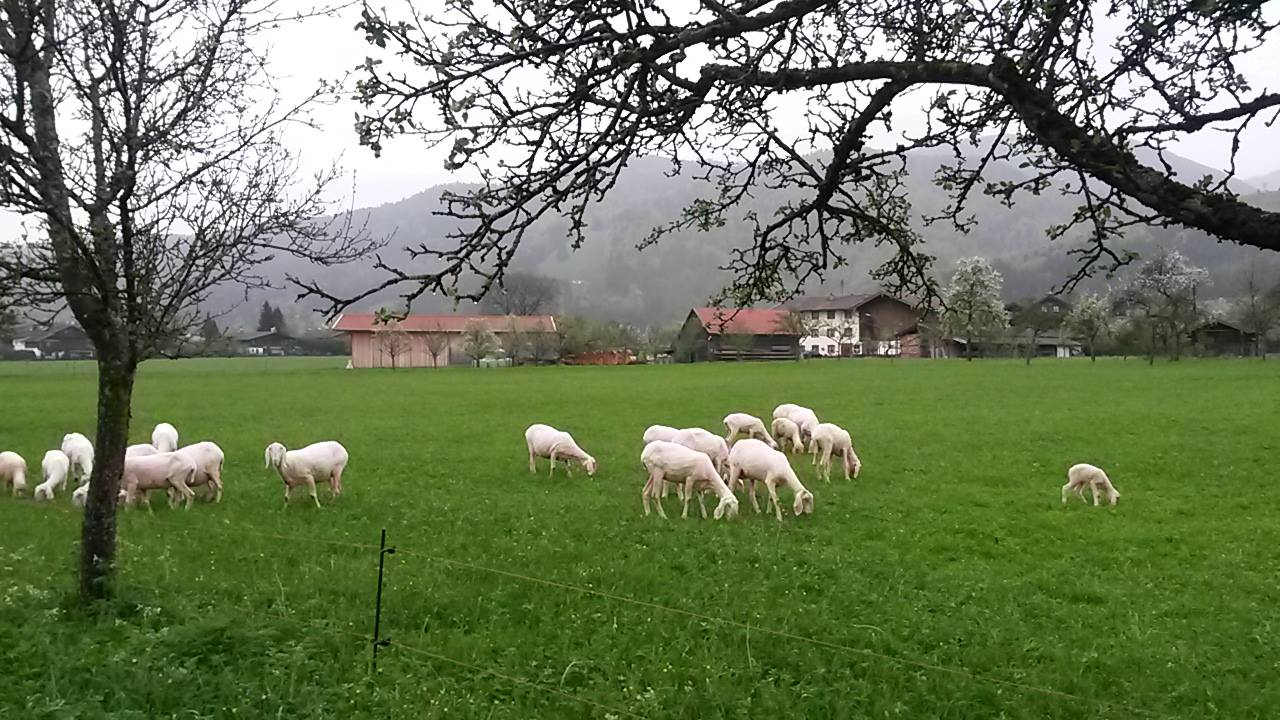
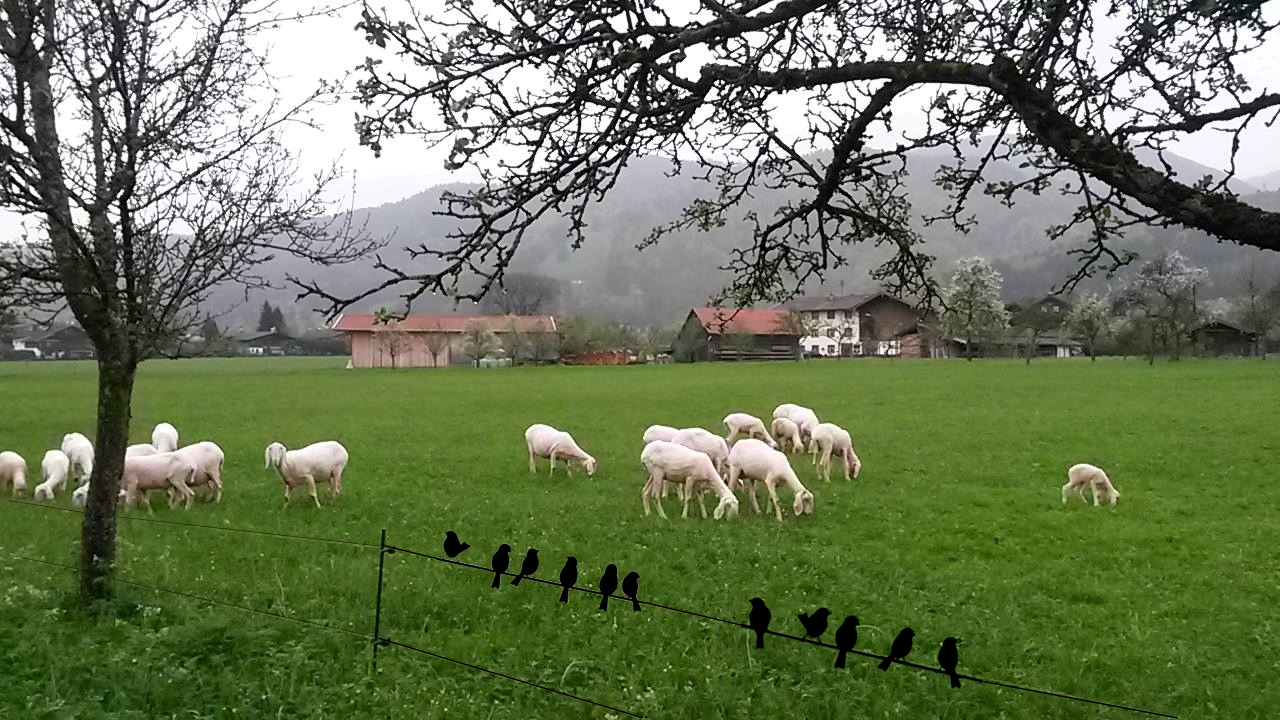
texte und bilder hinzugefügt

diff --git a/web/pages/Vergessene_Orte1_loesung.html b/web/pages/Vergessene_Orte1_loesung.html
@@ -7,7 +7,7 @@
     <title>Lösung 3</title>
     <meta name="description" content="Lösung 3" />
     <meta name="author" content="engelchen62" />
-    <meta name="robots" content="noindex">
+    <meta name="robots" content="noindex" />
     <link rel="stylesheet" href="/css/styles.css" />
     <link
       href="https://fonts.googleapis.com/css2?family=Open+Sans&display=swap"
@@ -24,8 +24,15 @@
         </div>
       </div>
       <div class="textBox">
-        <p>Irgendein Text mit interessanten Infos über die Hütte</p>
-        <a href="https://de.wikipedia.org/wiki/Terra-Nova-Expedition" target="_blank"
+        <h2>Gut gemacht!</h2>
+        Die Geschichte dazu ist schon sehr beeindruckend ...<div>
+          <img alt="Scott" class="imgmittel" src="/assets/Scott_Forscher.jpg" />
+       </div>
+       <span class="pbild">Scotts Team am Südpol, 18. Januar 1912. <br>Von links nach rechts: (stehend) Oates, Scott, Wilson; (sitzend) Bowers, Edgar Evans</span><br /><br />
+          Scott zählte zu den ersten zehn Menschen, die den Südpol erreichten. Mit seinem Ziel, als allererster dort anzukommen scheiterte er im Rahmen seiner Terra-Nova-Expedition (1910–1913). Als Scott den geografischen Südpol am 18. Januar 1912 erreichte, musst er feststellen, dass er das Rennen gegen seinen großen Rivalen Roald Amundsen verloren hatte. Der Norweger war rund einen Monat vor ihm am Pol angekommen. Letztlich kostete die Expedition den Forscher das Leben: Auf dem Rückweg zum Basislager starben Scott und seine vier Begleiter an Unterernährung, Krankheit und Unterkühlung. (Auszug aus DER STANDARD)</p>
+        <a
+          href="https://de.wikipedia.org/wiki/Terra-Nova-Expedition"
+          target="_blank"
           >Terra-Nova-Expedition - Wikipedia</a
         ><br />
 
@@ -34,7 +41,8 @@
         ><br />
 
         <a
-          href="https://www.weltderwunder.de/artikel/scotts-huette-wo-die-zeit-seit-100-jahren-stillsteht" target="_blank"
+          href="https://www.weltderwunder.de/artikel/scotts-huette-wo-die-zeit-seit-100-jahren-stillsteht"
+          target="_blank"
           >Scotts Hütte: Wo die Zeit seit 100 Jahren stillsteht</a
         >
       </div>

diff --git a/web/pages/kaffeetante.html b/web/pages/kaffeetante.html
@@ -27,7 +27,8 @@
      <div class="textBox">
       
         <h2>Koffein</h2>  
-            <div class="textBoxinside"><p class="pdubraun">Kaffee unser, der du bist in der Tasse,<br>geheiligt werde dein Koffein,<br>dein Röstgrad komme,<br>dein Brühvorgang geschehe,<br>wie am Morgen, so auch in der Arbeit.<br>Und erlöse uns von der Müdigkeit,<br>denn dein ist die Bohne und das Wasser<br>und die Stärke in Ewigkeit<br>ARABICA</p></div>
+            <div class="textBoxinside">
+              <p class="pdubraun">Kaffee unser, der du bist in der Tasse,<br>geheiligt werde dein Koffein,<br>dein Röstgrad komme,<br>dein Brühvorgang geschehe,<br>wie am Morgen, so auch in der Arbeit.<br>Und erlöse uns von der Müdigkeit,<br>denn dein ist die Bohne und das Wasser<br>und die Stärke in Ewigkeit<br>ARABICA</p></div>
             <p class="phbraun">Das könnte durchaus auch Uhug's tägliches Motto sein, <br>denn für ein Kaffeetscherl ist die Jubilarin immer zu haben, oder auch zwei… :) <br>So ein Tässchen braunes Gebräu hält die grauen Zellen in nächtelangen Rätselmarathons zuverlässig wach und wärmt auf anstrengenden Dosensuchtouren schön durch, <br></p>
               <div>
                 <img class="imgklein" alt="Kaffee_im_Kofferraum" src="/assets/Kaffee_im_Kofferraum.jpg" />

diff --git a/web/pages/kuchen_loesung.html b/web/pages/kuchen_loesung.html
@@ -27,13 +27,18 @@
     <div class="textBox">
       <p>
         <h2>Super! Mmmmhh, die war lecker …. !</h2> 
-        Zur Belohnung hier das Rezept:
+        Mit solch einer schokoladigen Kalorienbombe konnten uhug und ich vor einiger Zeit in
+        einem Moment der Verzweiflung unseren Kopf aus der Schlinge ziehen,
+        indem wir den General der Marsabwehr damit „besänftigten“ 😉
+        <br><br>Hier das Rezept.
+        Du brauchst noch folgende Zutaten zum Fertigstellen:<br /><br />
+        200 g Aprikosenmarmelade<br />
+        150 g Schokolade<br />
+        200 g Zucker<br />
+        125ml Wasser<br />
         <div>
           <img alt="Rezept" src="/assets/Sachertorte_Rezept.png" />
-        </div>
-        Oh ja, mit solch einer schokoladigen Kalorienbombe konnten uhug und ich vor einiger Zeit in
-        einem Moment der Verzweiflung unseren Kopf aus der Schlinge ziehen 😉,
-        indem wir den General der Marsabwehr damit „besänftigten“ :D
+        </div>        
       </p>
       <p></p>
     </div>

diff --git a/web/pages/einherzfuertiere.html b/web/pages/einherzfuertiere.html
@@ -34,13 +34,13 @@
           <img alt="nackteSchafe" src="/assets/nackte_Schafe.jpg" />
         </div>
         
-        <br><br> Rätselfrage...?
+        <br><br> Was für ein Tier (A) besaß das Geburtstagskind und wie hieß es (B)?
        </p>
       </div>
 
      <div class="passwortBox">
        <form id="passwordForm">
-        <label for="password">Lösungswort:</label><br />
+        <label for="password">Lösungswort AB:</label><br />
         <input type="text" id="password" name="password" autocomplete="off"/><br />
         <label id="pwfalsch">Gaaanz falsch!</label><br>
         <input type="submit" value=" prüfen " />
@@ -51,7 +51,7 @@
 
      <div class="hint_container">
        <img id="hint_icon" alt="Hint" title="Help!" src="/assets/hint.png" />
-       <p id="hint" class="hint">Dummy-PW: Tiere</p>
+       <p id="hint" class="hint">Ich glaub, Du hast nen Vogel!</p>
      </div>
 
      <script src="/js/scripts.js"></script></div>

diff --git a/web/pages/raetseljunkie_loesung.html b/web/pages/raetseljunkie_loesung.html
@@ -26,8 +26,8 @@
     <div class="textBox">
       <p class="pgrau">
         Oh ja, <h2>"Das Geisterhaus"</h2> <a href="https://coord.info/GC5PW12" target="_blank">(Link zum Rätsel)</a><br>
-        <p class="pgrau">ein toll gemachtes, anspruchsvolles Indoor-Rätsel, das das Rätselfieber bei uns
-        auslöste…! <br />Wer mag, kann ja in der Bookmarkliste <br><br><a href="https://www.geocaching.com/plan/lists/BM2TN2Y?sort=name&sortOrder=asc&skip=0&take=50" target="_blank"> "Beste virtuelle Online-Rätsel"</a> <br><br>etwas schmökern…
+        <p class="pgrau">ein toll gemachtes, anspruchsvolles und raffiniertes Indoor-Rätsel, das unsere Rätselleidenschaft enorm
+        anfachte…! <br /><br />Wer mag, kann ja in der Bookmarkliste <br><br><a href="https://www.geocaching.com/plan/lists/BM2TN2Y?sort=name&sortOrder=asc&skip=0&take=50" target="_blank"> "Beste virtuelle Online-Rätsel"</a> <br><br>etwas schmökern…
       </p>
     </div>
 

diff --git a/web/pages/Agententraining.html b/web/pages/Agententraining.html
@@ -34,7 +34,7 @@
         <div>
           <img alt="MIA-Bootcamp" src="/assets/Agententraining.jpg" />
         </div>
-        <span class="pmia">Agententraining Ende März 2019</span>
+        <span class="pbild">Agententraining Ende März 2019</span>
         <br><br> 
         <p class="pgrau">Unsere Jubilarin, wie soll es auch anders sein, <br>ist natürlich eine der TOP-LEVEL10-AgentInnen, und schreckt vor nichts zurück!<br><br>Doch Strapazen hin oder her, auch Geselligkeit kommt für die wachsende Truppe sowohl auf der Erde als auch in den außerirdischen Breitengraden nicht zu kurz. <br><br>Die <a href="https://coord.info/GC8EHAF" target="_blank"
           >Taverne zum Wanderer</a

diff --git a/web/pages/LPBeelitz.html b/web/pages/LPBeelitz.html
@@ -35,7 +35,7 @@
         </div>
 
         <div>
-          <img alt="Beelitz_Treppenhaus" src="/assets/LP2_Bild2.png" />
+          <img alt="Beelitz_Treppenhaus" class="imgmittel" src="/assets/LP2_Bild2.png" />
         </div>
          
          <br>Schau Dich dort ein wenig um und finde diesen Raum: 
@@ -58,7 +58,7 @@
      <!-- checkPassword(this) -->
 
      <div class="hint_container">
-       <img id="hint_icon" alt="Hint" title="Help!" src="/assets/hint.png" />
+       <img id="hint_icon" alt="Hint" title="Ich finde es nicht!" src="/assets/hint.png" />
        <p id="hint" class="hint">suche östlich der Straße nach Fichtenwalde</p>
      </div>
 

diff --git a/web/pages/kuchen.html b/web/pages/kuchen.html
@@ -35,13 +35,15 @@
        <h3>Man nehme:</h3>
 
        <p>
-        8 Eier <br />
+        6 Eier <br />
         1 Prise Salz<br />
-        175 g Butter<br />
-        275 g Zucker<br />
+        180 g Butter<br />
+        150 g Zucker<br />
+        150 g Puderzucker<br />
+        1 Pck. Vanillezucker<br />
         1 TL Backpulver<br />
-        200 g Mehl<br />
-        200 g Zartbitterschokolade
+        180 g Mehl<br />
+        180 g Zartbitterschokolade
        </p>
 
        <div>

diff --git a/web/public/css/styles.css b/web/public/css/styles.css
@@ -98,7 +98,7 @@ ol {
 }
 
 .pdubraun {
-  color: rgb(73, 47, 21);
+  color: rgb(148, 112, 77);
   font-size: large;
   font-weight: bold;
 }
@@ -119,8 +119,8 @@ ol {
   color: rgb(50, 138, 209);
 }
 
-.pmia {
-  color: rgba(137, 151, 5, 0.856);
+.pbild {
+  color: rgba(75, 83, 0, 0.856);
   font-size: small;
 }
 
@@ -223,7 +223,7 @@ img {
   width: 100%;
   height: auto;
   padding-top: 20px;
-  padding-bottom: 20px;
+  padding-bottom: 5px;
 }
 
 .imgmittel {

diff --git a/web/pages/raetseljunkie.html b/web/pages/raetseljunkie.html
@@ -73,7 +73,7 @@
           title="Ich tappe im Dunkeln! Bitte hilf mir!"
           src="/assets/hint.png"
         />
-        <p id="hint" class="hint">Guck mal durch die Fenster</p>
+        <p id="hint" class="hint pgrau">Guck mal durch die Fenster</p>
       </div>
 
       <script src="/js/scripts.js"></script>

diff --git a/web/pages/vergessene_orte1.html b/web/pages/vergessene_orte1.html
@@ -38,7 +38,7 @@
    
        <div>
         <img class="imgklein" alt="Suche mich" src="/assets/Such_mich.png" />
-       </div>
+       </div><br>
 
        <li>In welchem Jahr wurde das Gebäude erbaut?
        (<strong>D</strong>)</li>

diff --git a/index.js b/index.js
@@ -105,7 +105,7 @@ const correctPassword = {
     link: "/tiere",
   },
   "/tiere": {
-    password: "tiere",
+    password: "pferdhelios",
     link: "/bonus",
   },
   "/bonus": {
